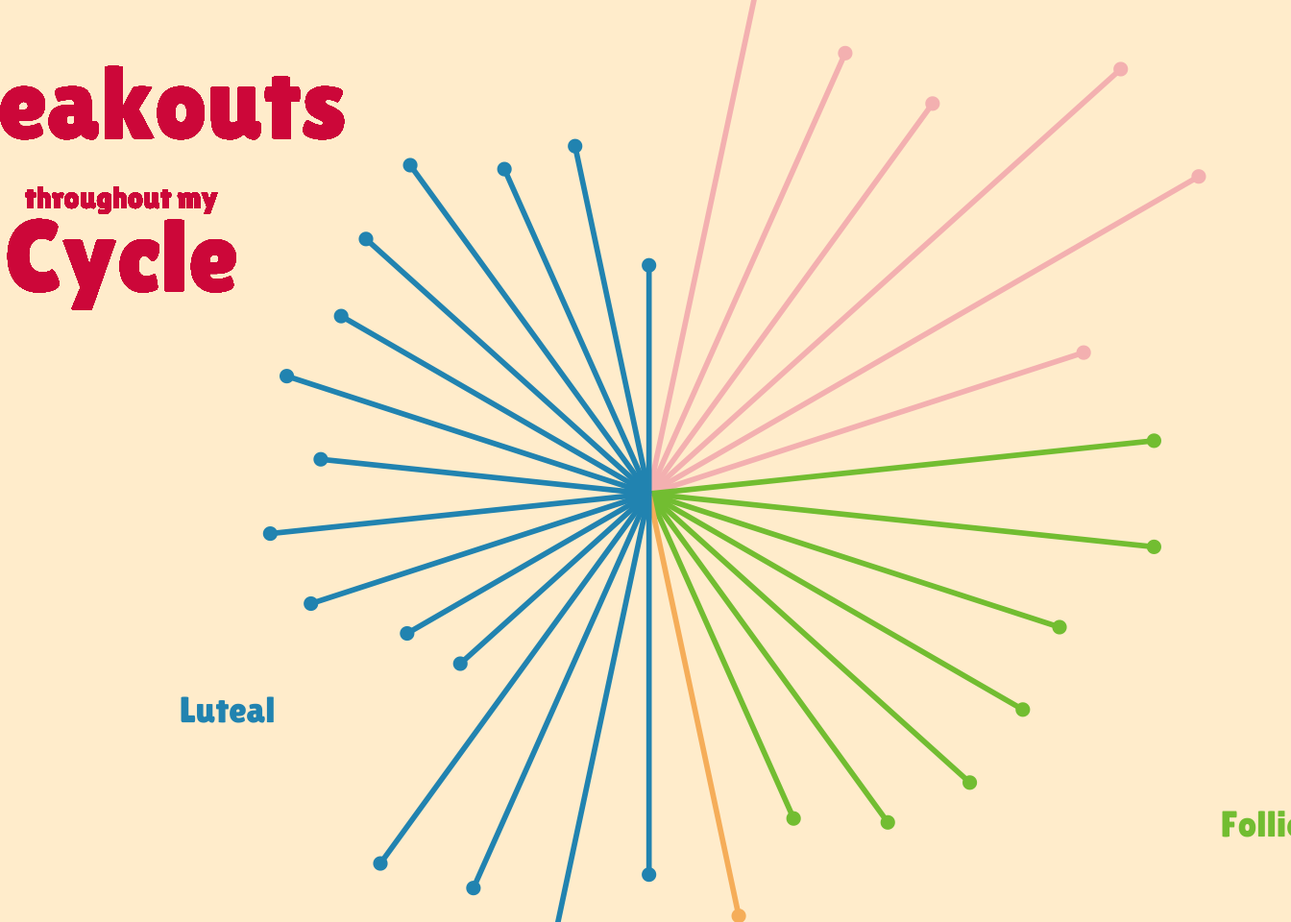
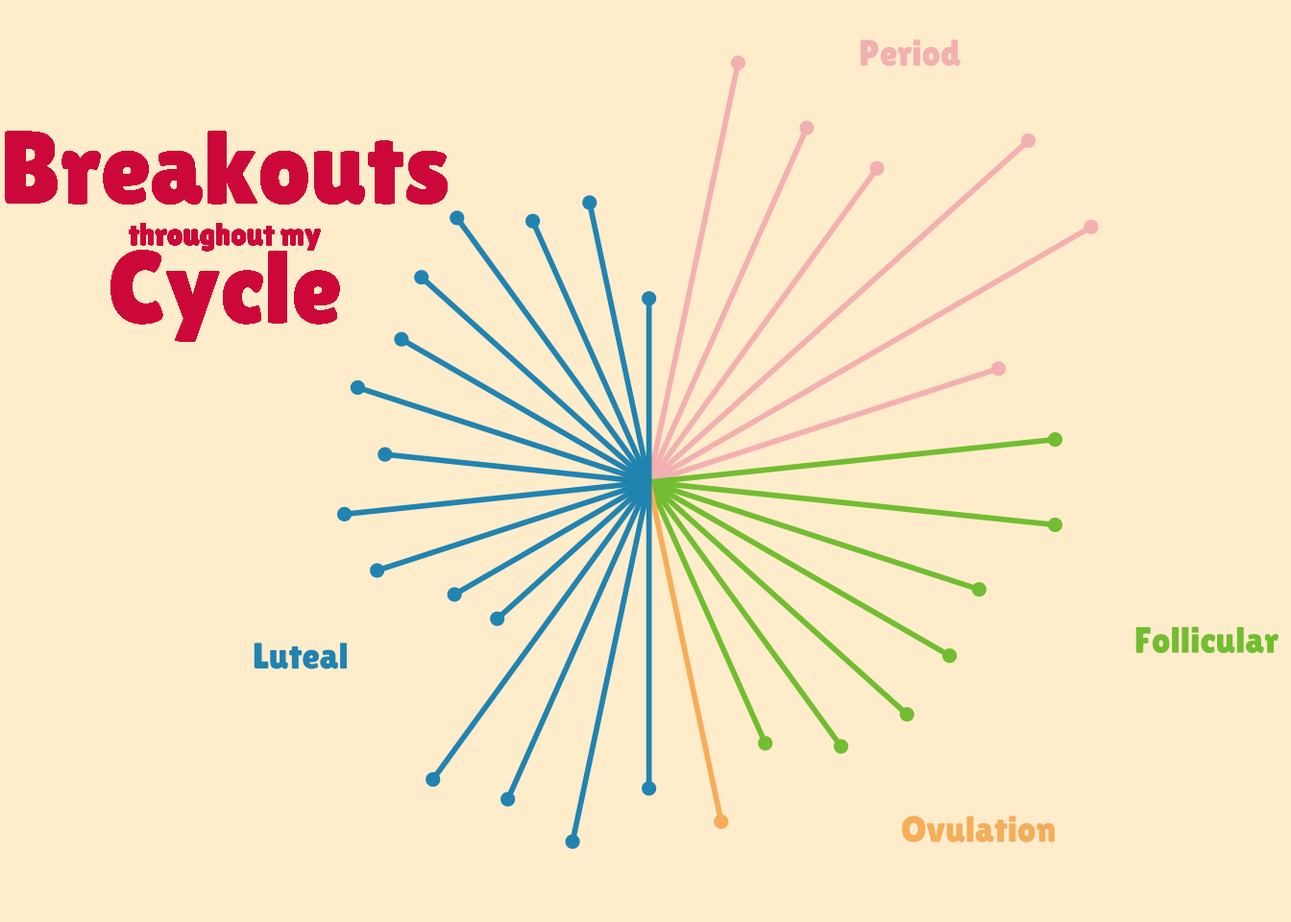
trying to commit

diff --git a/CYOP-DataVisualization.html b/CYOP-DataVisualization.html
@@ -129,8 +129,8 @@ pre > code.sourceCode > span > a:first-child::before { text-decoration: underlin
 <h4 class="anchored" data-anchor-id="trail-running">Trail Running</h4>
 <p><img src="images/clipboard-1647356209.png" class="img-fluid">The second visualization I like is by Georgios Karamanis in their TidyTuesday repository. This visualization displays the difference in median trail running pace between men and women by nationality. The packaged used are tidyverse, camcorder, patchwork, and colorspace, which the first three being used in the same way as they were for the first visualization. The colorspace package is used to manipulate colors more easily such as changing saturation and mix colors. To clean the data, they did a series of pipes to filter for the data they need and calculate the median pace by nationality and gender. The final dataframe has the name of the runner, their age, nationality, time, and gender. The geoms used are geom_segment, which creates the lines for the difference in mean pace, geom_point, which is added to the end of each segment to create the “lollipop” shape, geom_text to add captions and labels, and geom_rect, to create the bar-like chart on the right. <a href="https://github.com/gkaramanis/tidytuesday/tree/master/2021/2021-week43">Here is a link to their code</a>.&nbsp;</p>
 </section>
-<section id="what-makes-a-five-star-trail" class="level4">
-<h4 class="anchored" data-anchor-id="what-makes-a-five-star-trail">What Makes a Five-Star Trail?</h4>
+<section id="washington-trails" class="level4">
+<h4 class="anchored" data-anchor-id="washington-trails">Washington Trails</h4>
 <p><img src="images/clipboard-1699225476.png" class="img-fluid">The third visualization I like is from Ijeamaka Anyene’s TidyTuesday repository which uses survey data to highlight which trail features appear more frequently on five-star trails. The packages used to make this visualization are ggplot2, stringr, dplyr, tidyr, ggtext, and ggimage. These R packages collectively enable advanced data manipulation (dplyr, tidyr), string operations (stringr), and creation of sophisticated and richly formatted visualizations (ggplot2, ggtext, ggimage). To clean the data, she filtered for only 5 star ratings, then split those up into which features were present, and then counted which features occurred most often. The final dataset has the names of the five-star rated trails and the features each of those trails have. The geoms used in this visualization are geom_text to more easily add captions and labels and geom_segment in a circular shape to create the percentage visualization for each feature. <a href="https://github.com/Ijeamakaanyene/tidytuesday/blob/master/scripts/2020_18_washington_trails.RMd">Here is a link to their code</a>.&nbsp;</p>
 </section>
 </section>
@@ -180,81 +180,95 @@ pre > code.sourceCode > span > a:first-child::before { text-decoration: underlin
 <span id="cb1-37"><a href="#cb1-37" aria-hidden="true" tabindex="-1"></a>  <span class="fu">scale_x_continuous</span>() <span class="sc">+</span></span>
 <span id="cb1-38"><a href="#cb1-38" aria-hidden="true" tabindex="-1"></a>  <span class="fu">coord_polar</span>(<span class="at">start =</span> <span class="dv">0</span>) <span class="sc">+</span> <span class="co">#m make the segments into a circle </span></span>
 <span id="cb1-39"><a href="#cb1-39" aria-hidden="true" tabindex="-1"></a>  <span class="fu">scale_color_identity</span>() <span class="sc">+</span>  <span class="co"># Use colors as they are specified</span></span>
-<span id="cb1-40"><a href="#cb1-40" aria-hidden="true" tabindex="-1"></a>  <span class="fu">expand_limits</span>(<span class="at">x =</span> <span class="fu">c</span>(<span class="dv">0</span>, <span class="dv">30</span>), <span class="at">y =</span> <span class="fu">c</span>(<span class="dv">0</span>, <span class="fu">max</span>(breakouts<span class="sc">$</span>pimples) <span class="sc">+</span> <span class="dv">2</span>)) <span class="sc">+</span>  <span class="co"># Ensure enough space around the plot</span></span>
-<span id="cb1-41"><a href="#cb1-41" aria-hidden="true" tabindex="-1"></a>  <span class="fu">theme_minimal</span>() <span class="sc">+</span></span>
-<span id="cb1-42"><a href="#cb1-42" aria-hidden="true" tabindex="-1"></a>  <span class="fu">theme</span>(</span>
-<span id="cb1-43"><a href="#cb1-43" aria-hidden="true" tabindex="-1"></a>    <span class="at">axis.title.x =</span> <span class="fu">element_blank</span>(), <span class="co"># no x axis title</span></span>
-<span id="cb1-44"><a href="#cb1-44" aria-hidden="true" tabindex="-1"></a>    <span class="at">axis.title.y =</span> <span class="fu">element_blank</span>(), <span class="co"># no y axis title </span></span>
-<span id="cb1-45"><a href="#cb1-45" aria-hidden="true" tabindex="-1"></a>    <span class="at">panel.grid.major =</span> <span class="fu">element_blank</span>(), <span class="co"># gets rid of y axis gridlines</span></span>
-<span id="cb1-46"><a href="#cb1-46" aria-hidden="true" tabindex="-1"></a>    <span class="at">panel.grid.minor =</span> <span class="fu">element_blank</span>(), <span class="co"># gets rid of x axis gridlines</span></span>
-<span id="cb1-47"><a href="#cb1-47" aria-hidden="true" tabindex="-1"></a>    <span class="at">axis.text.x =</span> <span class="fu">element_blank</span>(),  <span class="co"># Remove x-axis numbers</span></span>
-<span id="cb1-48"><a href="#cb1-48" aria-hidden="true" tabindex="-1"></a>    <span class="at">axis.text.y =</span> <span class="fu">element_blank</span>(),  <span class="co"># Remove y-axis numbers</span></span>
-<span id="cb1-49"><a href="#cb1-49" aria-hidden="true" tabindex="-1"></a>    <span class="at">panel.background =</span> <span class="fu">element_rect</span>(</span>
-<span id="cb1-50"><a href="#cb1-50" aria-hidden="true" tabindex="-1"></a>      <span class="at">fill =</span> <span class="st">"#ffefd5"</span>, <span class="co"># add fill color </span></span>
-<span id="cb1-51"><a href="#cb1-51" aria-hidden="true" tabindex="-1"></a>      <span class="at">color =</span> <span class="st">"#ffefd5"</span>), <span class="co">#border color is the same</span></span>
-<span id="cb1-52"><a href="#cb1-52" aria-hidden="true" tabindex="-1"></a>    <span class="at">plot.background =</span> <span class="fu">element_rect</span>(</span>
-<span id="cb1-53"><a href="#cb1-53" aria-hidden="true" tabindex="-1"></a>      <span class="at">fill =</span> <span class="st">"#ffefd5"</span>,<span class="co">#background color of entire plot</span></span>
-<span id="cb1-54"><a href="#cb1-54" aria-hidden="true" tabindex="-1"></a>      <span class="at">color =</span> <span class="cn">NA</span>), <span class="co">#no border color </span></span>
-<span id="cb1-55"><a href="#cb1-55" aria-hidden="true" tabindex="-1"></a>    <span class="at">panel.border =</span> <span class="fu">element_blank</span>(), <span class="co"># Remove panel border</span></span>
-<span id="cb1-56"><a href="#cb1-56" aria-hidden="true" tabindex="-1"></a>    <span class="at">plot.margin =</span> <span class="fu">margin</span>(<span class="sc">-</span><span class="dv">5</span>, <span class="sc">-</span><span class="dv">6</span>, <span class="sc">-</span><span class="dv">6</span>, <span class="sc">-</span><span class="dv">6</span>, <span class="st">"cm"</span>) <span class="co"># make margins bigger</span></span>
-<span id="cb1-57"><a href="#cb1-57" aria-hidden="true" tabindex="-1"></a>  ) <span class="sc">+</span></span>
-<span id="cb1-58"><a href="#cb1-58" aria-hidden="true" tabindex="-1"></a>  <span class="fu">annotate</span>(<span class="st">"text"</span>, <span class="co">#text type label (same for all annotates below)</span></span>
-<span id="cb1-59"><a href="#cb1-59" aria-hidden="true" tabindex="-1"></a>           <span class="at">x =</span> <span class="dv">3</span>, <span class="co">#placement </span></span>
-<span id="cb1-60"><a href="#cb1-60" aria-hidden="true" tabindex="-1"></a>           <span class="at">y =</span> <span class="fu">max</span>(breakouts<span class="sc">$</span>pimples) <span class="sc">+</span> <span class="dv">1</span>, <span class="co">#placement above data</span></span>
-<span id="cb1-61"><a href="#cb1-61" aria-hidden="true" tabindex="-1"></a>           <span class="at">label =</span> <span class="st">"Period"</span>, <span class="co">#title</span></span>
-<span id="cb1-62"><a href="#cb1-62" aria-hidden="true" tabindex="-1"></a>           <span class="at">color =</span> <span class="st">"#f7bfbe"</span>, <span class="co">#color</span></span>
-<span id="cb1-63"><a href="#cb1-63" aria-hidden="true" tabindex="-1"></a>           <span class="at">size =</span> <span class="dv">5</span>, <span class="co">#size</span></span>
-<span id="cb1-64"><a href="#cb1-64" aria-hidden="true" tabindex="-1"></a>           <span class="at">angle =</span> <span class="dv">0</span>, <span class="co">#horizontal</span></span>
-<span id="cb1-65"><a href="#cb1-65" aria-hidden="true" tabindex="-1"></a>           <span class="at">hjust =</span> <span class="dv">1</span>, <span class="co">#placement</span></span>
-<span id="cb1-66"><a href="#cb1-66" aria-hidden="true" tabindex="-1"></a>           <span class="at">family =</span> <span class="st">"Lilita"</span>) <span class="sc">+</span> <span class="co">#font</span></span>
-<span id="cb1-67"><a href="#cb1-67" aria-hidden="true" tabindex="-1"></a>  <span class="fu">annotate</span>(<span class="st">"text"</span>, </span>
-<span id="cb1-68"><a href="#cb1-68" aria-hidden="true" tabindex="-1"></a>           <span class="at">x =</span> <span class="dv">10</span>, </span>
-<span id="cb1-69"><a href="#cb1-69" aria-hidden="true" tabindex="-1"></a>           <span class="at">y =</span> <span class="fu">max</span>(breakouts<span class="sc">$</span>pimples) <span class="sc">+</span> <span class="dv">1</span>, </span>
-<span id="cb1-70"><a href="#cb1-70" aria-hidden="true" tabindex="-1"></a>           <span class="at">label =</span> <span class="st">"Follicular"</span>, </span>
-<span id="cb1-71"><a href="#cb1-71" aria-hidden="true" tabindex="-1"></a>           <span class="at">color =</span> <span class="st">"#83c53f"</span>, </span>
-<span id="cb1-72"><a href="#cb1-72" aria-hidden="true" tabindex="-1"></a>           <span class="at">size =</span> <span class="dv">5</span>, </span>
-<span id="cb1-73"><a href="#cb1-73" aria-hidden="true" tabindex="-1"></a>           <span class="at">angle =</span> <span class="dv">0</span>, </span>
-<span id="cb1-74"><a href="#cb1-74" aria-hidden="true" tabindex="-1"></a>           <span class="at">hjust =</span> <span class="dv">0</span>,</span>
-<span id="cb1-75"><a href="#cb1-75" aria-hidden="true" tabindex="-1"></a>           <span class="at">family =</span> <span class="st">"Lilita"</span>) <span class="sc">+</span></span>
-<span id="cb1-76"><a href="#cb1-76" aria-hidden="true" tabindex="-1"></a>  <span class="fu">annotate</span>(<span class="st">"text"</span>, </span>
-<span id="cb1-77"><a href="#cb1-77" aria-hidden="true" tabindex="-1"></a>           <span class="at">x =</span> <span class="dv">12</span>, </span>
-<span id="cb1-78"><a href="#cb1-78" aria-hidden="true" tabindex="-1"></a>           <span class="at">y =</span> <span class="fu">max</span>(breakouts<span class="sc">$</span>pimples), </span>
-<span id="cb1-79"><a href="#cb1-79" aria-hidden="true" tabindex="-1"></a>           <span class="at">label =</span> <span class="st">"Ovulation"</span>, </span>
-<span id="cb1-80"><a href="#cb1-80" aria-hidden="true" tabindex="-1"></a>           <span class="at">color =</span> <span class="st">"#f8bb6c"</span>, </span>
-<span id="cb1-81"><a href="#cb1-81" aria-hidden="true" tabindex="-1"></a>           <span class="at">size =</span> <span class="dv">5</span>, </span>
-<span id="cb1-82"><a href="#cb1-82" aria-hidden="true" tabindex="-1"></a>           <span class="at">angle =</span> <span class="dv">0</span>,</span>
-<span id="cb1-83"><a href="#cb1-83" aria-hidden="true" tabindex="-1"></a>           <span class="at">hjust =</span> <span class="dv">0</span>,</span>
-<span id="cb1-84"><a href="#cb1-84" aria-hidden="true" tabindex="-1"></a>           <span class="at">family =</span> <span class="st">"Lilita"</span>) <span class="sc">+</span></span>
-<span id="cb1-85"><a href="#cb1-85" aria-hidden="true" tabindex="-1"></a>  <span class="fu">annotate</span>(<span class="st">"text"</span>, </span>
-<span id="cb1-86"><a href="#cb1-86" aria-hidden="true" tabindex="-1"></a>           <span class="at">x =</span> <span class="dv">20</span>, </span>
-<span id="cb1-87"><a href="#cb1-87" aria-hidden="true" tabindex="-1"></a>           <span class="at">y =</span> <span class="fu">max</span>(breakouts<span class="sc">$</span>pimples) <span class="sc">-</span> <span class="dv">8</span>, </span>
-<span id="cb1-88"><a href="#cb1-88" aria-hidden="true" tabindex="-1"></a>           <span class="at">label =</span> <span class="st">"Luteal"</span>, </span>
-<span id="cb1-89"><a href="#cb1-89" aria-hidden="true" tabindex="-1"></a>           <span class="at">color =</span> <span class="st">"#2596be"</span>, </span>
-<span id="cb1-90"><a href="#cb1-90" aria-hidden="true" tabindex="-1"></a>           <span class="at">size =</span> <span class="dv">5</span>, </span>
-<span id="cb1-91"><a href="#cb1-91" aria-hidden="true" tabindex="-1"></a>           <span class="at">angle =</span> <span class="dv">0</span>, </span>
-<span id="cb1-92"><a href="#cb1-92" aria-hidden="true" tabindex="-1"></a>           <span class="at">hjust =</span> <span class="dv">1</span>,</span>
-<span id="cb1-93"><a href="#cb1-93" aria-hidden="true" tabindex="-1"></a>           <span class="at">family =</span> <span class="st">"Lilita"</span>) <span class="sc">+</span></span>
-<span id="cb1-94"><a href="#cb1-94" aria-hidden="true" tabindex="-1"></a>  <span class="fu">geom_richtext</span>( <span class="co">#adding cooler label</span></span>
-<span id="cb1-95"><a href="#cb1-95" aria-hidden="true" tabindex="-1"></a>    <span class="fu">aes</span>(<span class="at">x =</span> <span class="dv">25</span>, <span class="co">#changes vertically</span></span>
-<span id="cb1-96"><a href="#cb1-96" aria-hidden="true" tabindex="-1"></a>        <span class="at">y =</span> <span class="dv">24</span>), <span class="co">#changes horizontally</span></span>
-<span id="cb1-97"><a href="#cb1-97" aria-hidden="true" tabindex="-1"></a>  <span class="co"># label is the title of the figure, using this format for more customization</span></span>
-<span id="cb1-98"><a href="#cb1-98" aria-hidden="true" tabindex="-1"></a>    <span class="at">label =</span> <span class="st">"&lt;b style='color:#d82349;font-size: 40pt;'&gt;Breakouts&lt;/b&gt;&lt;br&gt; &lt;span style='font-size: 12pt; color:#d82349 '&gt;throughout my&lt;/span&gt;&lt;br&gt;&lt;span style='font-size: 40pt; color:#d82349'&gt;Cycle&lt;/span&gt;"</span>,</span>
-<span id="cb1-99"><a href="#cb1-99" aria-hidden="true" tabindex="-1"></a></span>
-<span id="cb1-100"><a href="#cb1-100" aria-hidden="true" tabindex="-1"></a>    <span class="at">hjust =</span> <span class="fl">0.5</span>, <span class="co">#center horizontally</span></span>
-<span id="cb1-101"><a href="#cb1-101" aria-hidden="true" tabindex="-1"></a>    <span class="at">vjust =</span> <span class="fl">0.5</span>, <span class="co">#center vertically</span></span>
-<span id="cb1-102"><a href="#cb1-102" aria-hidden="true" tabindex="-1"></a>    <span class="at">fill =</span> <span class="fu">alpha</span>(<span class="st">"#ffefd5"</span>, <span class="dv">0</span>),  <span class="co"># Transparent fill</span></span>
-<span id="cb1-103"><a href="#cb1-103" aria-hidden="true" tabindex="-1"></a>    <span class="at">label.color =</span> <span class="cn">NA</span>, <span class="co"># Remove border around the text box</span></span>
-<span id="cb1-104"><a href="#cb1-104" aria-hidden="true" tabindex="-1"></a>    <span class="at">family =</span> <span class="st">"Lilita"</span>, <span class="co">#font</span></span>
-<span id="cb1-105"><a href="#cb1-105" aria-hidden="true" tabindex="-1"></a>    <span class="at">size =</span> <span class="dv">8</span> <span class="co">#font size </span></span>
-<span id="cb1-106"><a href="#cb1-106" aria-hidden="true" tabindex="-1"></a>  )</span></code><button title="Copy to Clipboard" class="code-copy-button"><i class="bi"></i></button></pre></div>
+<span id="cb1-40"><a href="#cb1-40" aria-hidden="true" tabindex="-1"></a>  <span class="fu">expand_limits</span>(<span class="at">x =</span> <span class="fu">c</span>(<span class="dv">0</span>, <span class="dv">30</span>), <span class="at">y =</span> <span class="fu">c</span>(<span class="dv">0</span>, <span class="fu">max</span>(breakouts<span class="sc">$</span>pimples) <span class="sc">+</span> <span class="dv">2</span>)) <span class="sc">+</span>  <span class="co"># Ensure </span></span>
+<span id="cb1-41"><a href="#cb1-41" aria-hidden="true" tabindex="-1"></a>  <span class="co">#enough space around the plot</span></span>
+<span id="cb1-42"><a href="#cb1-42" aria-hidden="true" tabindex="-1"></a>  <span class="fu">theme_minimal</span>() <span class="sc">+</span></span>
+<span id="cb1-43"><a href="#cb1-43" aria-hidden="true" tabindex="-1"></a>  <span class="fu">theme</span>(</span>
+<span id="cb1-44"><a href="#cb1-44" aria-hidden="true" tabindex="-1"></a>    <span class="co">#although not using the titles, need to have the code so the margins are big enough</span></span>
+<span id="cb1-45"><a href="#cb1-45" aria-hidden="true" tabindex="-1"></a>    <span class="co">#to add the title to where I want below</span></span>
+<span id="cb1-46"><a href="#cb1-46" aria-hidden="true" tabindex="-1"></a>    <span class="at">axis.title.x =</span> <span class="fu">element_blank</span>(), <span class="co"># no x axis title</span></span>
+<span id="cb1-47"><a href="#cb1-47" aria-hidden="true" tabindex="-1"></a>    <span class="at">axis.title.y =</span> <span class="fu">element_blank</span>(), <span class="co"># no y axis title </span></span>
+<span id="cb1-48"><a href="#cb1-48" aria-hidden="true" tabindex="-1"></a>    <span class="at">panel.grid.major =</span> <span class="fu">element_blank</span>(), <span class="co"># gets rid of y axis gridlines</span></span>
+<span id="cb1-49"><a href="#cb1-49" aria-hidden="true" tabindex="-1"></a>    <span class="at">panel.grid.minor =</span> <span class="fu">element_blank</span>(), <span class="co"># gets rid of x axis gridlines</span></span>
+<span id="cb1-50"><a href="#cb1-50" aria-hidden="true" tabindex="-1"></a>    <span class="at">axis.text.x =</span> <span class="fu">element_blank</span>(),  <span class="co"># Remove x-axis numbers</span></span>
+<span id="cb1-51"><a href="#cb1-51" aria-hidden="true" tabindex="-1"></a>    <span class="at">axis.text.y =</span> <span class="fu">element_blank</span>(),  <span class="co"># Remove y-axis numbers</span></span>
+<span id="cb1-52"><a href="#cb1-52" aria-hidden="true" tabindex="-1"></a>    <span class="at">panel.background =</span> <span class="fu">element_rect</span>(</span>
+<span id="cb1-53"><a href="#cb1-53" aria-hidden="true" tabindex="-1"></a>      <span class="at">fill =</span> <span class="st">"#ffefd5"</span>, <span class="co"># add fill color </span></span>
+<span id="cb1-54"><a href="#cb1-54" aria-hidden="true" tabindex="-1"></a>      <span class="at">color =</span> <span class="st">"#ffefd5"</span>), <span class="co">#border color is the same</span></span>
+<span id="cb1-55"><a href="#cb1-55" aria-hidden="true" tabindex="-1"></a>   </span>
+<span id="cb1-56"><a href="#cb1-56" aria-hidden="true" tabindex="-1"></a>     <span class="at">plot.background =</span> <span class="fu">element_rect</span>(</span>
+<span id="cb1-57"><a href="#cb1-57" aria-hidden="true" tabindex="-1"></a>      <span class="at">fill =</span> <span class="st">"#ffefd5"</span>,<span class="co">#background color of entire plot</span></span>
+<span id="cb1-58"><a href="#cb1-58" aria-hidden="true" tabindex="-1"></a>      <span class="at">color =</span> <span class="cn">NA</span>), <span class="co">#no </span></span>
+<span id="cb1-59"><a href="#cb1-59" aria-hidden="true" tabindex="-1"></a>    <span class="at">panel.border =</span> <span class="fu">element_blank</span>(), <span class="co"># Remove panel border</span></span>
+<span id="cb1-60"><a href="#cb1-60" aria-hidden="true" tabindex="-1"></a>    <span class="at">plot.margin =</span> <span class="fu">margin</span>(<span class="sc">-</span><span class="dv">4</span>, <span class="sc">-</span><span class="dv">4</span>, <span class="sc">-</span><span class="dv">4</span>, <span class="sc">-</span><span class="dv">4</span>, <span class="st">"cm"</span>) <span class="co"># Add margins around the plot</span></span>
+<span id="cb1-61"><a href="#cb1-61" aria-hidden="true" tabindex="-1"></a>  ) <span class="sc">+</span></span>
+<span id="cb1-62"><a href="#cb1-62" aria-hidden="true" tabindex="-1"></a>  <span class="co">#keepign labs to preserve spacing even though not used to display text</span></span>
+<span id="cb1-63"><a href="#cb1-63" aria-hidden="true" tabindex="-1"></a>  <span class="fu">labs</span>(<span class="at">title =</span> <span class="st">""</span>, </span>
+<span id="cb1-64"><a href="#cb1-64" aria-hidden="true" tabindex="-1"></a>       <span class="at">subtitle =</span> <span class="st">""</span>, </span>
+<span id="cb1-65"><a href="#cb1-65" aria-hidden="true" tabindex="-1"></a>       <span class="at">caption =</span> <span class="st">""</span>) <span class="sc">+</span> </span>
+<span id="cb1-66"><a href="#cb1-66" aria-hidden="true" tabindex="-1"></a>  </span>
+<span id="cb1-67"><a href="#cb1-67" aria-hidden="true" tabindex="-1"></a>  <span class="co">#add cycle labels </span></span>
+<span id="cb1-68"><a href="#cb1-68" aria-hidden="true" tabindex="-1"></a>  <span class="fu">annotate</span>(<span class="st">"text"</span>, <span class="co">#text type of annotation</span></span>
+<span id="cb1-69"><a href="#cb1-69" aria-hidden="true" tabindex="-1"></a>           <span class="at">x =</span> <span class="dv">3</span>, <span class="co">#x coordinate for placement </span></span>
+<span id="cb1-70"><a href="#cb1-70" aria-hidden="true" tabindex="-1"></a>           <span class="at">y =</span> <span class="fu">max</span>(breakouts<span class="sc">$</span>pimples) <span class="sc">+</span> <span class="dv">1</span>, <span class="co">#placed above data</span></span>
+<span id="cb1-71"><a href="#cb1-71" aria-hidden="true" tabindex="-1"></a>           <span class="at">label =</span> <span class="st">"Period"</span>, <span class="co">#title</span></span>
+<span id="cb1-72"><a href="#cb1-72" aria-hidden="true" tabindex="-1"></a>           <span class="at">color =</span> <span class="st">"#f7bfbe"</span>, <span class="co">#color</span></span>
+<span id="cb1-73"><a href="#cb1-73" aria-hidden="true" tabindex="-1"></a>           <span class="at">size =</span> <span class="dv">5</span>, <span class="co">#font size</span></span>
+<span id="cb1-74"><a href="#cb1-74" aria-hidden="true" tabindex="-1"></a>           <span class="at">angle =</span> <span class="dv">0</span>, <span class="co">#horizontal</span></span>
+<span id="cb1-75"><a href="#cb1-75" aria-hidden="true" tabindex="-1"></a>           <span class="at">hjust =</span> <span class="dv">1</span>, <span class="co">#right text alignment</span></span>
+<span id="cb1-76"><a href="#cb1-76" aria-hidden="true" tabindex="-1"></a>           <span class="at">family =</span> <span class="st">"Lilita"</span>) <span class="sc">+</span></span>
+<span id="cb1-77"><a href="#cb1-77" aria-hidden="true" tabindex="-1"></a>  <span class="fu">annotate</span>(<span class="st">"text"</span>, </span>
+<span id="cb1-78"><a href="#cb1-78" aria-hidden="true" tabindex="-1"></a>           <span class="at">x =</span> <span class="dv">9</span>, </span>
+<span id="cb1-79"><a href="#cb1-79" aria-hidden="true" tabindex="-1"></a>           <span class="at">y =</span> <span class="fu">max</span>(breakouts<span class="sc">$</span>pimples), </span>
+<span id="cb1-80"><a href="#cb1-80" aria-hidden="true" tabindex="-1"></a>           <span class="at">label =</span> <span class="st">"Follicular"</span>, </span>
+<span id="cb1-81"><a href="#cb1-81" aria-hidden="true" tabindex="-1"></a>           <span class="at">color =</span> <span class="st">"#83c53f"</span>, </span>
+<span id="cb1-82"><a href="#cb1-82" aria-hidden="true" tabindex="-1"></a>           <span class="at">size =</span> <span class="dv">5</span>, </span>
+<span id="cb1-83"><a href="#cb1-83" aria-hidden="true" tabindex="-1"></a>           <span class="at">angle =</span> <span class="dv">0</span>, </span>
+<span id="cb1-84"><a href="#cb1-84" aria-hidden="true" tabindex="-1"></a>           <span class="at">hjust =</span> <span class="dv">0</span>, <span class="co">#left text alignmnet </span></span>
+<span id="cb1-85"><a href="#cb1-85" aria-hidden="true" tabindex="-1"></a>           <span class="at">family =</span> <span class="st">"Lilita"</span>) <span class="sc">+</span></span>
+<span id="cb1-86"><a href="#cb1-86" aria-hidden="true" tabindex="-1"></a>  <span class="fu">annotate</span>(<span class="st">"text"</span>, </span>
+<span id="cb1-87"><a href="#cb1-87" aria-hidden="true" tabindex="-1"></a>           <span class="at">x =</span> <span class="dv">12</span>, </span>
+<span id="cb1-88"><a href="#cb1-88" aria-hidden="true" tabindex="-1"></a>           <span class="at">y =</span> <span class="fu">max</span>(breakouts<span class="sc">$</span>pimples)<span class="sc">-</span><span class="dv">4</span>, </span>
+<span id="cb1-89"><a href="#cb1-89" aria-hidden="true" tabindex="-1"></a>           <span class="at">label =</span> <span class="st">"Ovulation"</span>, </span>
+<span id="cb1-90"><a href="#cb1-90" aria-hidden="true" tabindex="-1"></a>           <span class="at">color =</span> <span class="st">"#f8bb6c"</span>, </span>
+<span id="cb1-91"><a href="#cb1-91" aria-hidden="true" tabindex="-1"></a>           <span class="at">size =</span> <span class="dv">5</span>, </span>
+<span id="cb1-92"><a href="#cb1-92" aria-hidden="true" tabindex="-1"></a>           <span class="at">angle =</span> <span class="dv">0</span>,</span>
+<span id="cb1-93"><a href="#cb1-93" aria-hidden="true" tabindex="-1"></a>           <span class="at">hjust =</span> <span class="dv">0</span>,</span>
+<span id="cb1-94"><a href="#cb1-94" aria-hidden="true" tabindex="-1"></a>           <span class="at">family =</span> <span class="st">"Lilita"</span>) <span class="sc">+</span></span>
+<span id="cb1-95"><a href="#cb1-95" aria-hidden="true" tabindex="-1"></a>  <span class="fu">annotate</span>(<span class="st">"text"</span>, </span>
+<span id="cb1-96"><a href="#cb1-96" aria-hidden="true" tabindex="-1"></a>           <span class="at">x =</span> <span class="dv">20</span>, </span>
+<span id="cb1-97"><a href="#cb1-97" aria-hidden="true" tabindex="-1"></a>           <span class="at">y =</span> <span class="fu">max</span>(breakouts<span class="sc">$</span>pimples) <span class="sc">-</span> <span class="dv">8</span>, </span>
+<span id="cb1-98"><a href="#cb1-98" aria-hidden="true" tabindex="-1"></a>           <span class="at">label =</span> <span class="st">"Luteal"</span>, </span>
+<span id="cb1-99"><a href="#cb1-99" aria-hidden="true" tabindex="-1"></a>           <span class="at">color =</span> <span class="st">"#2596be"</span>, </span>
+<span id="cb1-100"><a href="#cb1-100" aria-hidden="true" tabindex="-1"></a>           <span class="at">size =</span> <span class="dv">5</span>, </span>
+<span id="cb1-101"><a href="#cb1-101" aria-hidden="true" tabindex="-1"></a>           <span class="at">angle =</span> <span class="dv">0</span>, </span>
+<span id="cb1-102"><a href="#cb1-102" aria-hidden="true" tabindex="-1"></a>           <span class="at">hjust =</span> <span class="dv">1</span>,</span>
+<span id="cb1-103"><a href="#cb1-103" aria-hidden="true" tabindex="-1"></a>           <span class="at">family =</span> <span class="st">"Lilita"</span>) <span class="sc">+</span></span>
+<span id="cb1-104"><a href="#cb1-104" aria-hidden="true" tabindex="-1"></a>  <span class="fu">geom_richtext</span>(</span>
+<span id="cb1-105"><a href="#cb1-105" aria-hidden="true" tabindex="-1"></a>    <span class="fu">aes</span>(<span class="at">x =</span> <span class="dv">25</span>, <span class="co">#changes vertically</span></span>
+<span id="cb1-106"><a href="#cb1-106" aria-hidden="true" tabindex="-1"></a>        <span class="at">y =</span> <span class="dv">24</span>), <span class="co">#changes horizontally</span></span>
+<span id="cb1-107"><a href="#cb1-107" aria-hidden="true" tabindex="-1"></a>  <span class="co"># label is the title of the figure, using this format for more customization</span></span>
+<span id="cb1-108"><a href="#cb1-108" aria-hidden="true" tabindex="-1"></a>    <span class="at">label =</span> </span>
+<span id="cb1-109"><a href="#cb1-109" aria-hidden="true" tabindex="-1"></a>    <span class="st">"&lt;b style='color:#d82349;font-size: 40pt;'&gt;Breakouts&lt;/b&gt;&lt;br&gt;</span></span>
+<span id="cb1-110"><a href="#cb1-110" aria-hidden="true" tabindex="-1"></a><span class="st">  &lt;span style='font-size: 12pt; color:#d82349 </span></span>
+<span id="cb1-111"><a href="#cb1-111" aria-hidden="true" tabindex="-1"></a><span class="st">  '&gt;throughout my&lt;/span&gt;&lt;br&gt;&lt;span style='font-size: 40pt; </span></span>
+<span id="cb1-112"><a href="#cb1-112" aria-hidden="true" tabindex="-1"></a><span class="st">  color:#d82349'&gt;Cycle&lt;/span&gt;"</span>,</span>
+<span id="cb1-113"><a href="#cb1-113" aria-hidden="true" tabindex="-1"></a></span>
+<span id="cb1-114"><a href="#cb1-114" aria-hidden="true" tabindex="-1"></a>    <span class="at">hjust =</span> <span class="fl">0.5</span>, <span class="co">#center horizontally</span></span>
+<span id="cb1-115"><a href="#cb1-115" aria-hidden="true" tabindex="-1"></a>    <span class="at">vjust =</span> <span class="fl">0.5</span>, <span class="co">#center vertically</span></span>
+<span id="cb1-116"><a href="#cb1-116" aria-hidden="true" tabindex="-1"></a>    <span class="at">fill =</span> <span class="fu">alpha</span>(<span class="st">"#ffefd5"</span>, <span class="dv">0</span>),  <span class="co"># Transparent fill</span></span>
+<span id="cb1-117"><a href="#cb1-117" aria-hidden="true" tabindex="-1"></a>    <span class="at">label.color =</span> <span class="cn">NA</span>, <span class="co"># Remove border around the text box</span></span>
+<span id="cb1-118"><a href="#cb1-118" aria-hidden="true" tabindex="-1"></a>    <span class="at">family =</span> <span class="st">"Lilita"</span>) <span class="co">#font </span></span></code><button title="Copy to Clipboard" class="code-copy-button"><i class="bi"></i></button></pre></div>
 <div class="cell-output-display">
 <p><img src="CYOP-DataVisualization_files/figure-html/unnamed-chunk-1-1.png" class="img-fluid" width="672"></p>
 </div>
 </div>
+<p><br>
+</p>
 </section>
 <section id="process" class="level2">
 <h2 class="anchored" data-anchor-id="process">Process</h2>
-<p>My visualization displays the number of breakouts throughout one of my menstrual cycles. Each spoke is one day of my cycle; the radius corresponds to the number of breakouts on that day. To start my coding process, I had to clean my data slightly, by confining it to only once cycle (which for me, was 30 days). I then assigned each part of my cycle a different color before starting my plot.</p>
+<p>My visualization displays the number of breakouts throughout one of my menstrual cycles. Each spoke is one day of my cycle; the radius corresponds to the number of breakouts on that day. To start my coding process, I had to clean my data slightly, by confining it to only once cycle (which for me, was 30 days). I then assigned each part of my cycle a different color before starting the visualization. To plot, I used ggplot and used the geoms geom_segment and geom_point. I borrowed this idea from the trail running plot which used that combo to get the “lollipop” - like data. I then took inspiration from the Washington Trails plot to make my data display in a circular shape, using the coord_polar call. I spent a lot of time customizing the theme, changing the color of the background, figuring out how to import custom fonts, and adjusting the margins of the figure. I used annotate to add the description labels to each part of my cycle, and geom_richtext to add the title of my figure. Overall, my figures shows that throughout my menstrual cycle, I tend to have less breakouts in the second half.</p>
 </section>
 </section>
 
